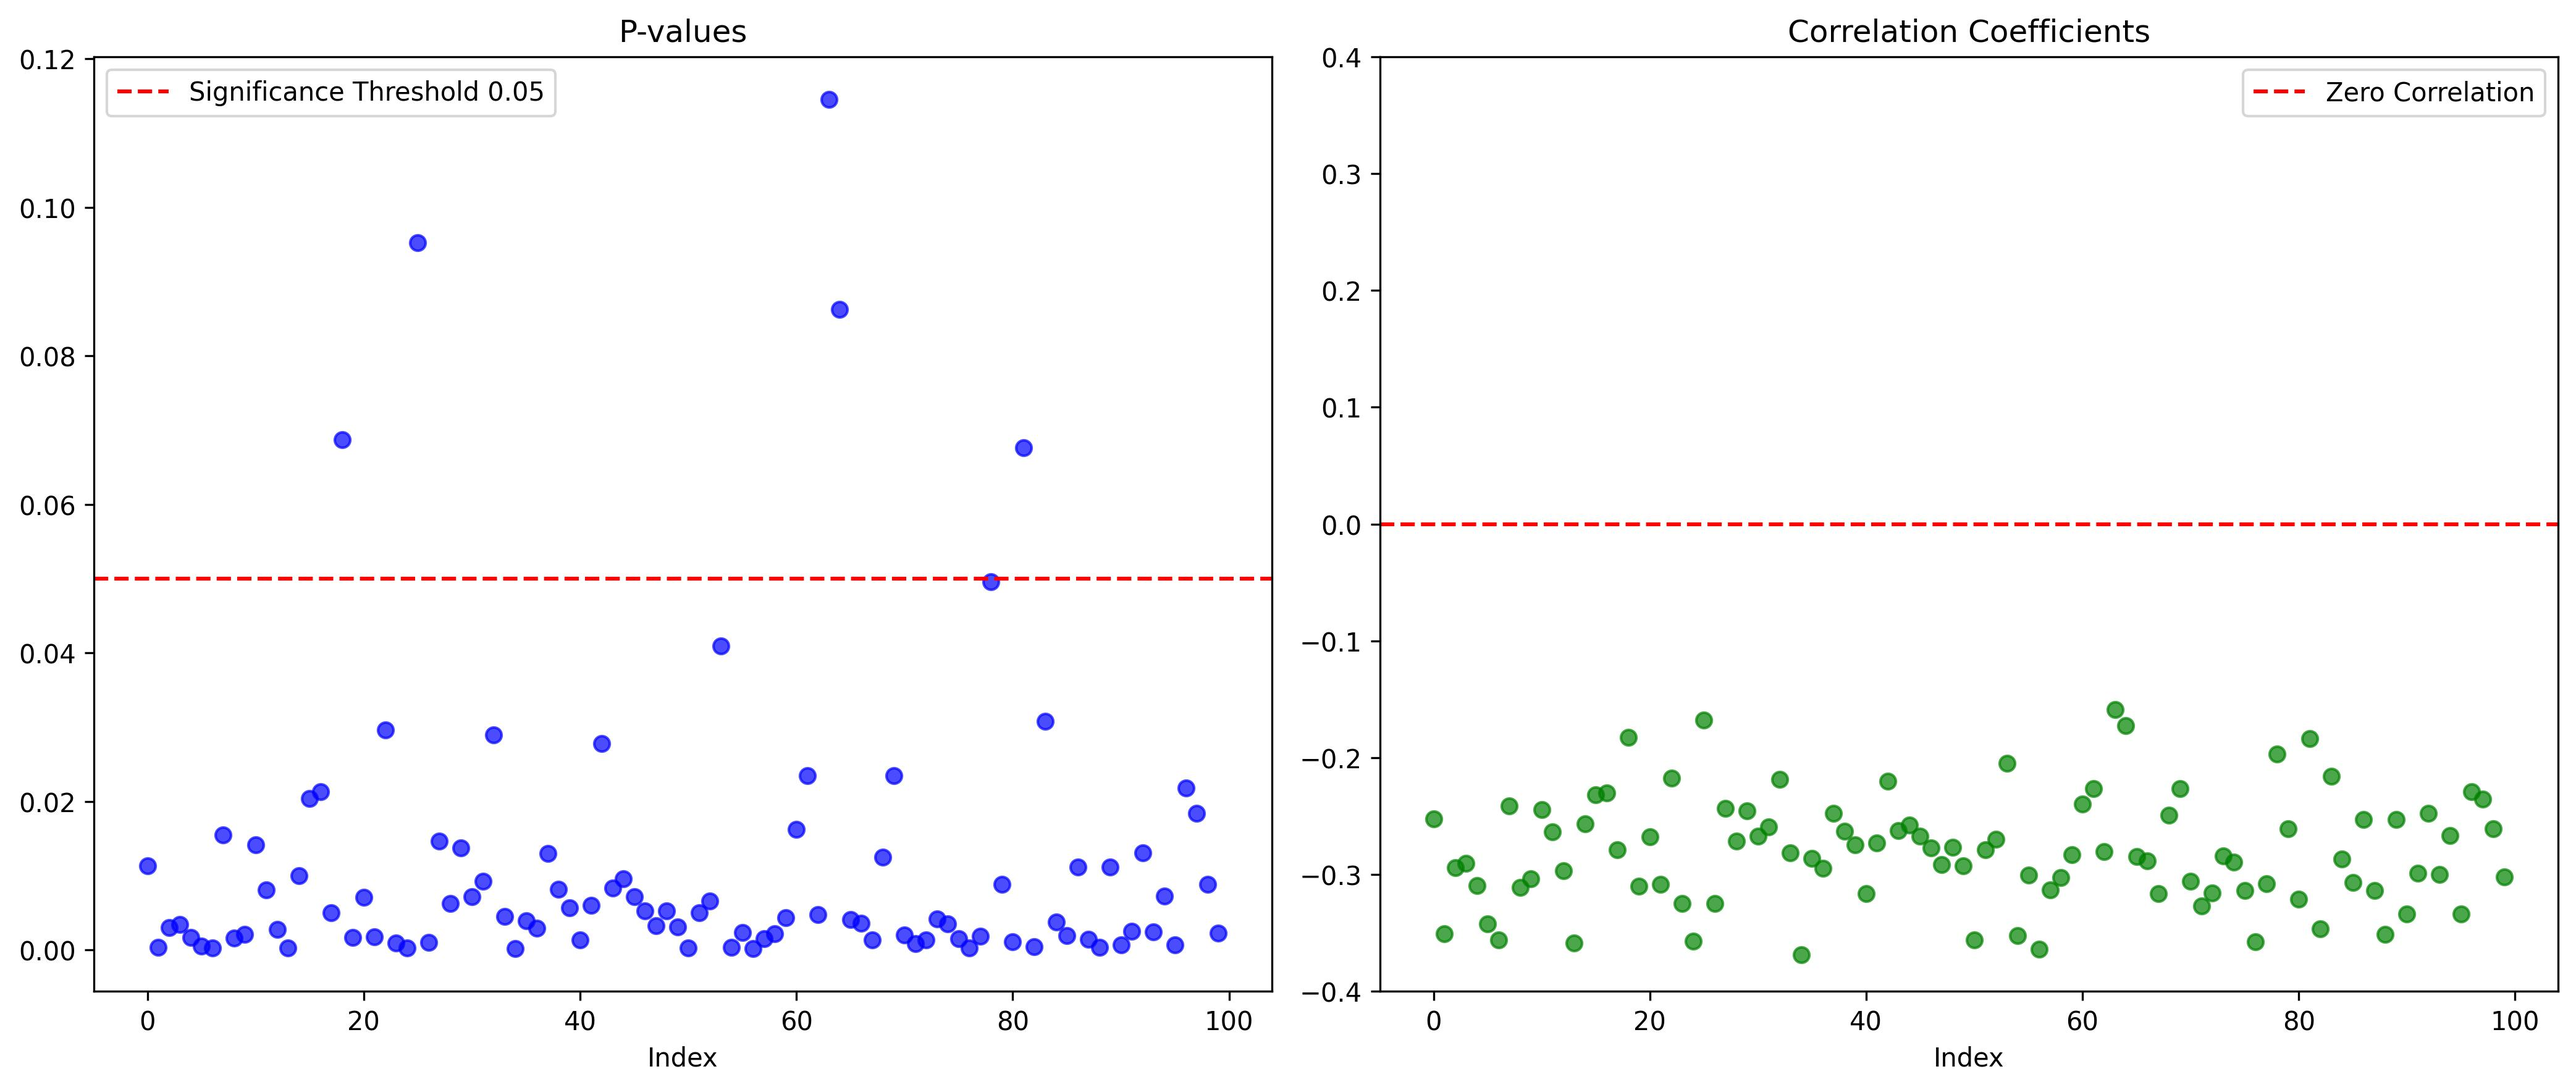
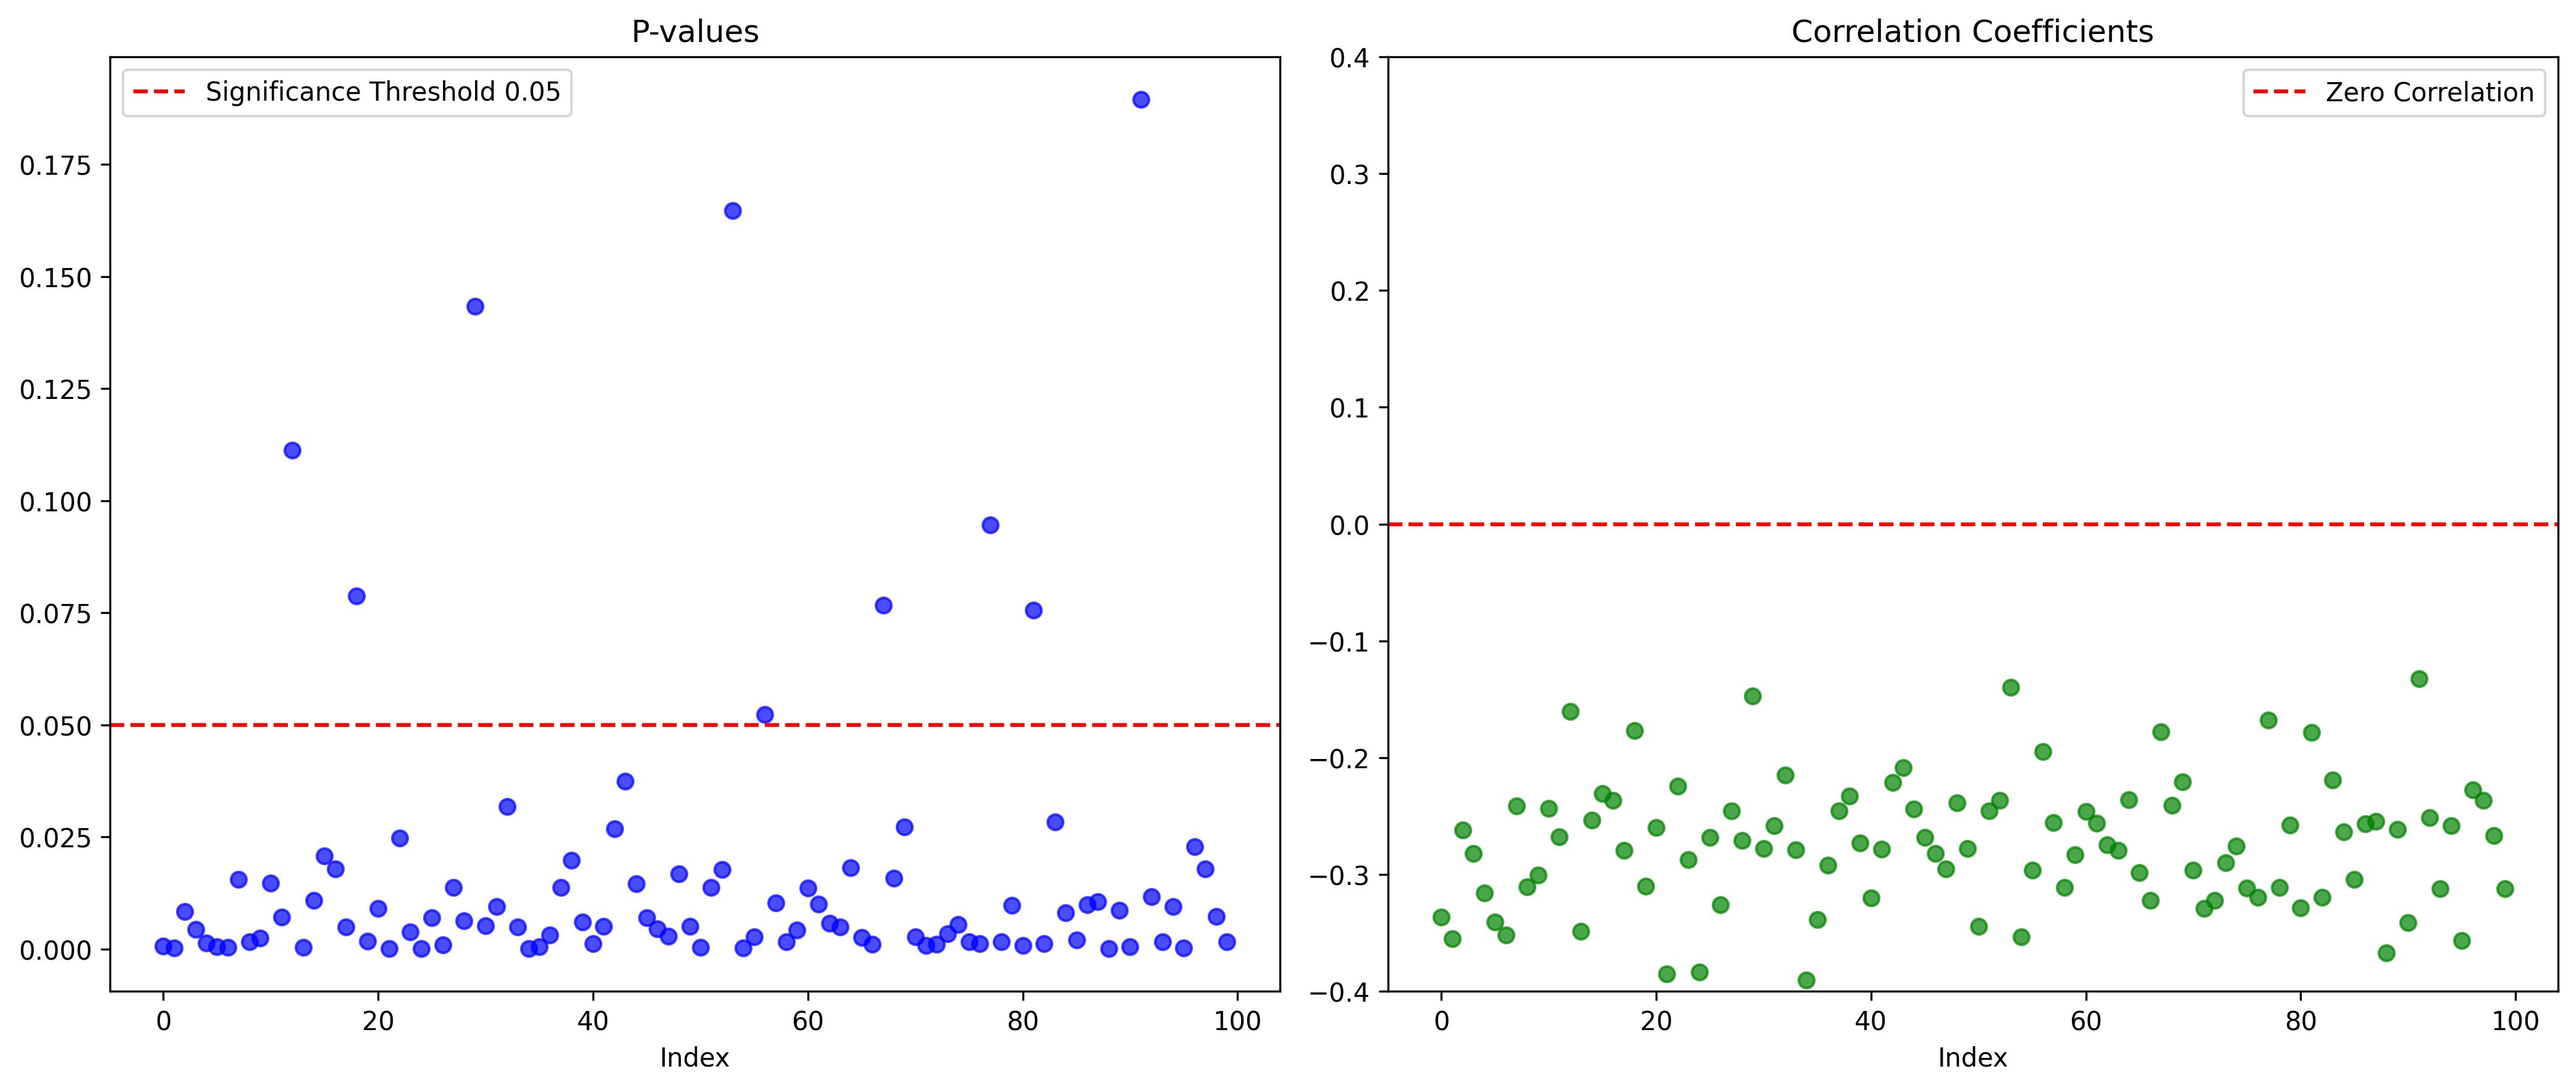
build eda script

diff --git a/modules/eda.py b/modules/eda.py
@@ -1,0 +1,145 @@
+"""
+Module that contains an EDA class.
+"""
+from sklearn.preprocessing import StandardScaler
+import pandas as pd
+import numpy as np
+import statsmodels.api as sm
+import matplotlib.pyplot as plt
+
+
+class EDA:
+    def __init__(self):
+        self.scalar = StandardScaler()
+        self.df_all_anime = pd.read_csv('data/all_anime.csv')
+        self.df_all_episode = pd.read_csv('data/all_episode.csv')
+
+    def score_rate_analysis(self):
+        """
+        1. Compute correlation between total episode and score rate
+        2. Iterate 100 times:
+            i. Sample 100 animations randomly
+            ii. Build regression model with total_episode and score_rate
+            iii. Record parameter, P-value, correlation coefficient
+        3. Show experiment results as plot
+        """
+        df_all_anime = self.df_all_anime.copy()
+        df = df_all_anime.dropna(subset='score', ignore_index=True)
+        df.loc[:, 'weight'] = df.loc[:, 'total_episode'] / df.loc[:, 'total_episode'].sum()
+
+        print(f'''Corr(total episode, scoring rate) = {df['total_episode'].corr(df['score_rate'])}.''')
+
+        parameters = []
+        pvalues = []
+        corr_coeffs = []
+        print('Start 100 iterations experiment...')
+        for i in range(100):
+            df_sample = df.sample(n=100, weights='weight', random_state=i)
+            y = df_sample['score_rate']
+            X = df_sample[['total_episode']]
+            X = sm.add_constant(X)
+
+            model = sm.OLS(y, X).fit()
+            parameters.append(model.params.iloc[1])
+            pvalues.append(model.pvalues.iloc[1])
+            corr_coeffs.append(np.sqrt(model.rsquared) * np.sign(model.params.iloc[1]))
+
+        df_plot = pd.DataFrame({'parameter': parameters,
+                                'pvalue': pvalues,
+                                'corr_coeff': corr_coeffs})
+
+        # Create a figure with two subplots (1 row, 2 columns)
+        fig, axes = plt.subplots(1, 2, figsize=(14, 6))
+
+        # Plot the p-values on the left
+        axes[0].scatter(df_plot.index, df_plot['pvalue'], color='blue', alpha=0.7)
+        axes[0].axhline(y=0.05, color='red', linestyle='--', label='Significance Threshold 0.05')
+        axes[0].set_title('P-values')
+        axes[0].set_xlabel('Index')
+        # axes[0].set_ylabel('P-value')
+        axes[0].legend()
+
+        # Plot the correlation coefficients on the right
+        axes[1].scatter(df_plot.index, df_plot['corr_coeff'], color='green', alpha=0.7)
+        axes[1].axhline(y=0, color='red', linestyle='--', label='Zero Correlation')
+        axes[1].set_ylim([-0.4, 0.4])
+        axes[1].set_title('Correlation Coefficients')
+        axes[1].set_xlabel('Index')
+        # axes[1].set_ylabel('Correlation Coefficient')
+        axes[1].legend()
+
+        # Adjust layout to avoid overlap
+        plt.tight_layout()
+
+        # Save the figure as a .jpg file
+        plt.savefig('plots/ep_count_to_score_rate_experiment.jpg', format='jpg', dpi=300, bbox_inches='tight')
+        print('Finish storing the result plots!!!')
+
+    def comment_rate_analysis(self):
+        """
+        1. Compute correlation between score and comment rate
+        2. Iterate 100 times:
+            i. Sample 100 animations randomly
+            ii. Build regression model with score and comment_rate
+            iii. Record parameter, P-value, correlation coefficient
+        3. Show experiment results as plot
+        """
+        df_all_episode = self.df_all_episode.copy()
+        df_all_anime = self.df_all_anime.copy()
+        agg_anime = df_all_episode.groupby('anime_name')['comment_count'].sum().reset_index()
+        df_all_anime = df_all_anime.merge(agg_anime, left_on='name', right_on='anime_name')
+        df_all_anime = df_all_anime.dropna(subset=['total_view', 'score'], ignore_index=True)
+
+        df_all_anime.loc[:, 'comment_rate'] = df_all_anime['comment_count'] / df_all_anime['total_view']
+        print(f'''Corr(score, commenting rate) = {df_all_anime['score'].corr(df_all_anime['comment_rate'])}.''')
+
+        parameters = []
+        pvalues = []
+        corr_coeffs = []
+        print('Start 100 iterations experiment...')
+        for i in range(100):
+            df_sample = df_all_anime.sample(n=100, random_state=i)
+            y = df_sample['comment_rate']
+            X = df_sample[['score']]
+            X = sm.add_constant(X)
+
+            model = sm.OLS(y, X).fit()
+            parameters.append(model.params.iloc[1])
+            pvalues.append(model.pvalues.iloc[1])
+            corr_coeffs.append(np.sqrt(model.rsquared) * np.sign(model.params.iloc[1]))
+
+        df_plot = pd.DataFrame({'parameter': parameters,
+                                'pvalue': pvalues,
+                                'corr_coeff': corr_coeffs})
+
+        # Create a figure with two subplots (1 row, 2 columns)
+        fig, axes = plt.subplots(1, 2, figsize=(14, 6))
+
+        # Plot the p-values on the left
+        axes[0].scatter(df_plot.index, df_plot['pvalue'], color='blue', alpha=0.7)
+        axes[0].axhline(y=0.05, color='red', linestyle='--', label='Significance Threshold 0.05')
+        axes[0].set_title('P-values')
+        axes[0].set_xlabel('Index')
+        # axes[0].set_ylabel('P-value')
+        axes[0].legend()
+
+        # Plot the correlation coefficients on the right
+        axes[1].scatter(df_plot.index, df_plot['corr_coeff'], color='green', alpha=0.7)
+        axes[1].axhline(y=0, color='red', linestyle='--', label='Zero Correlation')
+        axes[1].set_ylim([-0.4, 0.4])
+        axes[1].set_title('Correlation Coefficients')
+        axes[1].set_xlabel('Index')
+        # axes[1].set_ylabel('Correlation Coefficient')
+        axes[1].legend()
+
+        # Adjust layout to avoid overlap
+        plt.tight_layout()
+
+        # Save the figure as a .jpg file
+        plt.savefig('plots/score_to_comment_rate_experiment.jpg', format='jpg', dpi=300, bbox_inches='tight')
+        print('Finish storing the result plots!!!')
+
+if __name__ == '__main__':
+    eda = EDA()
+    eda.score_rate_analysis()
+    eda.comment_rate_analysis()

diff --git a/README.md b/README.md
@@ -16,7 +16,7 @@ This project is developed purely out of personal interest and is not intended fo
 - [Exploratory Data Analysis](#eda)
   1. [Viewers Are More Likely to Score Fewer-Episode Anime?](#scoreRateObserve)
   2. [Viewers Are More Likely to Comment on Bad Animations?](#commentRateObserve)
-- [Extra Functionalities](#functions)
+- [API Functionalities](#functions)
   1. [Review Analysis](#reviewAnalysis)
   2. [Recommendation System](#recommendation)
 - [Google Sheet Development](#googleSheet)
@@ -123,7 +123,7 @@ This led me to another assumption: Do viewers tend to leave comments when they w
 
 To verify this, I used `commenting rate` as the response variable and `score` as the predictor to check if there's a significant negative relationship between the two.
 
-The experiment method is similar to the previous one, but this time, I used `commenting rate` and `score` as variables. For each round, I randomly sampled 500 episodes, built regression models, and recorded the P-values and correlation coefficients. The results are shown in the following plot:
+The experiment method is similar to the previous one, but this time, I used `commenting rate` and `score` as variables. The P-value and correlation results are shown in the following plot:
 
 ![score to comment rate](plots/score_to_comment_rate_experiment.jpg)
 
@@ -136,7 +136,7 @@ While the comments for **極速星舞** mainly criticize it as a bad animation, 
 
 ---
 
-## Extra Functionalities <a name="functions"></a>
+## API Functionalities <a name="functions"></a>
 Using the data scraped from [Animation Crazy](https://ani.gamer.com.tw/) webpages, I developed two core functionalities and implemented them as API endpoints using `FastAPI`. 
 The implementation details can be found in the `api.py`, `review_analysis.py`, and `recommend.py` scripts within the `modules` folder.
 
